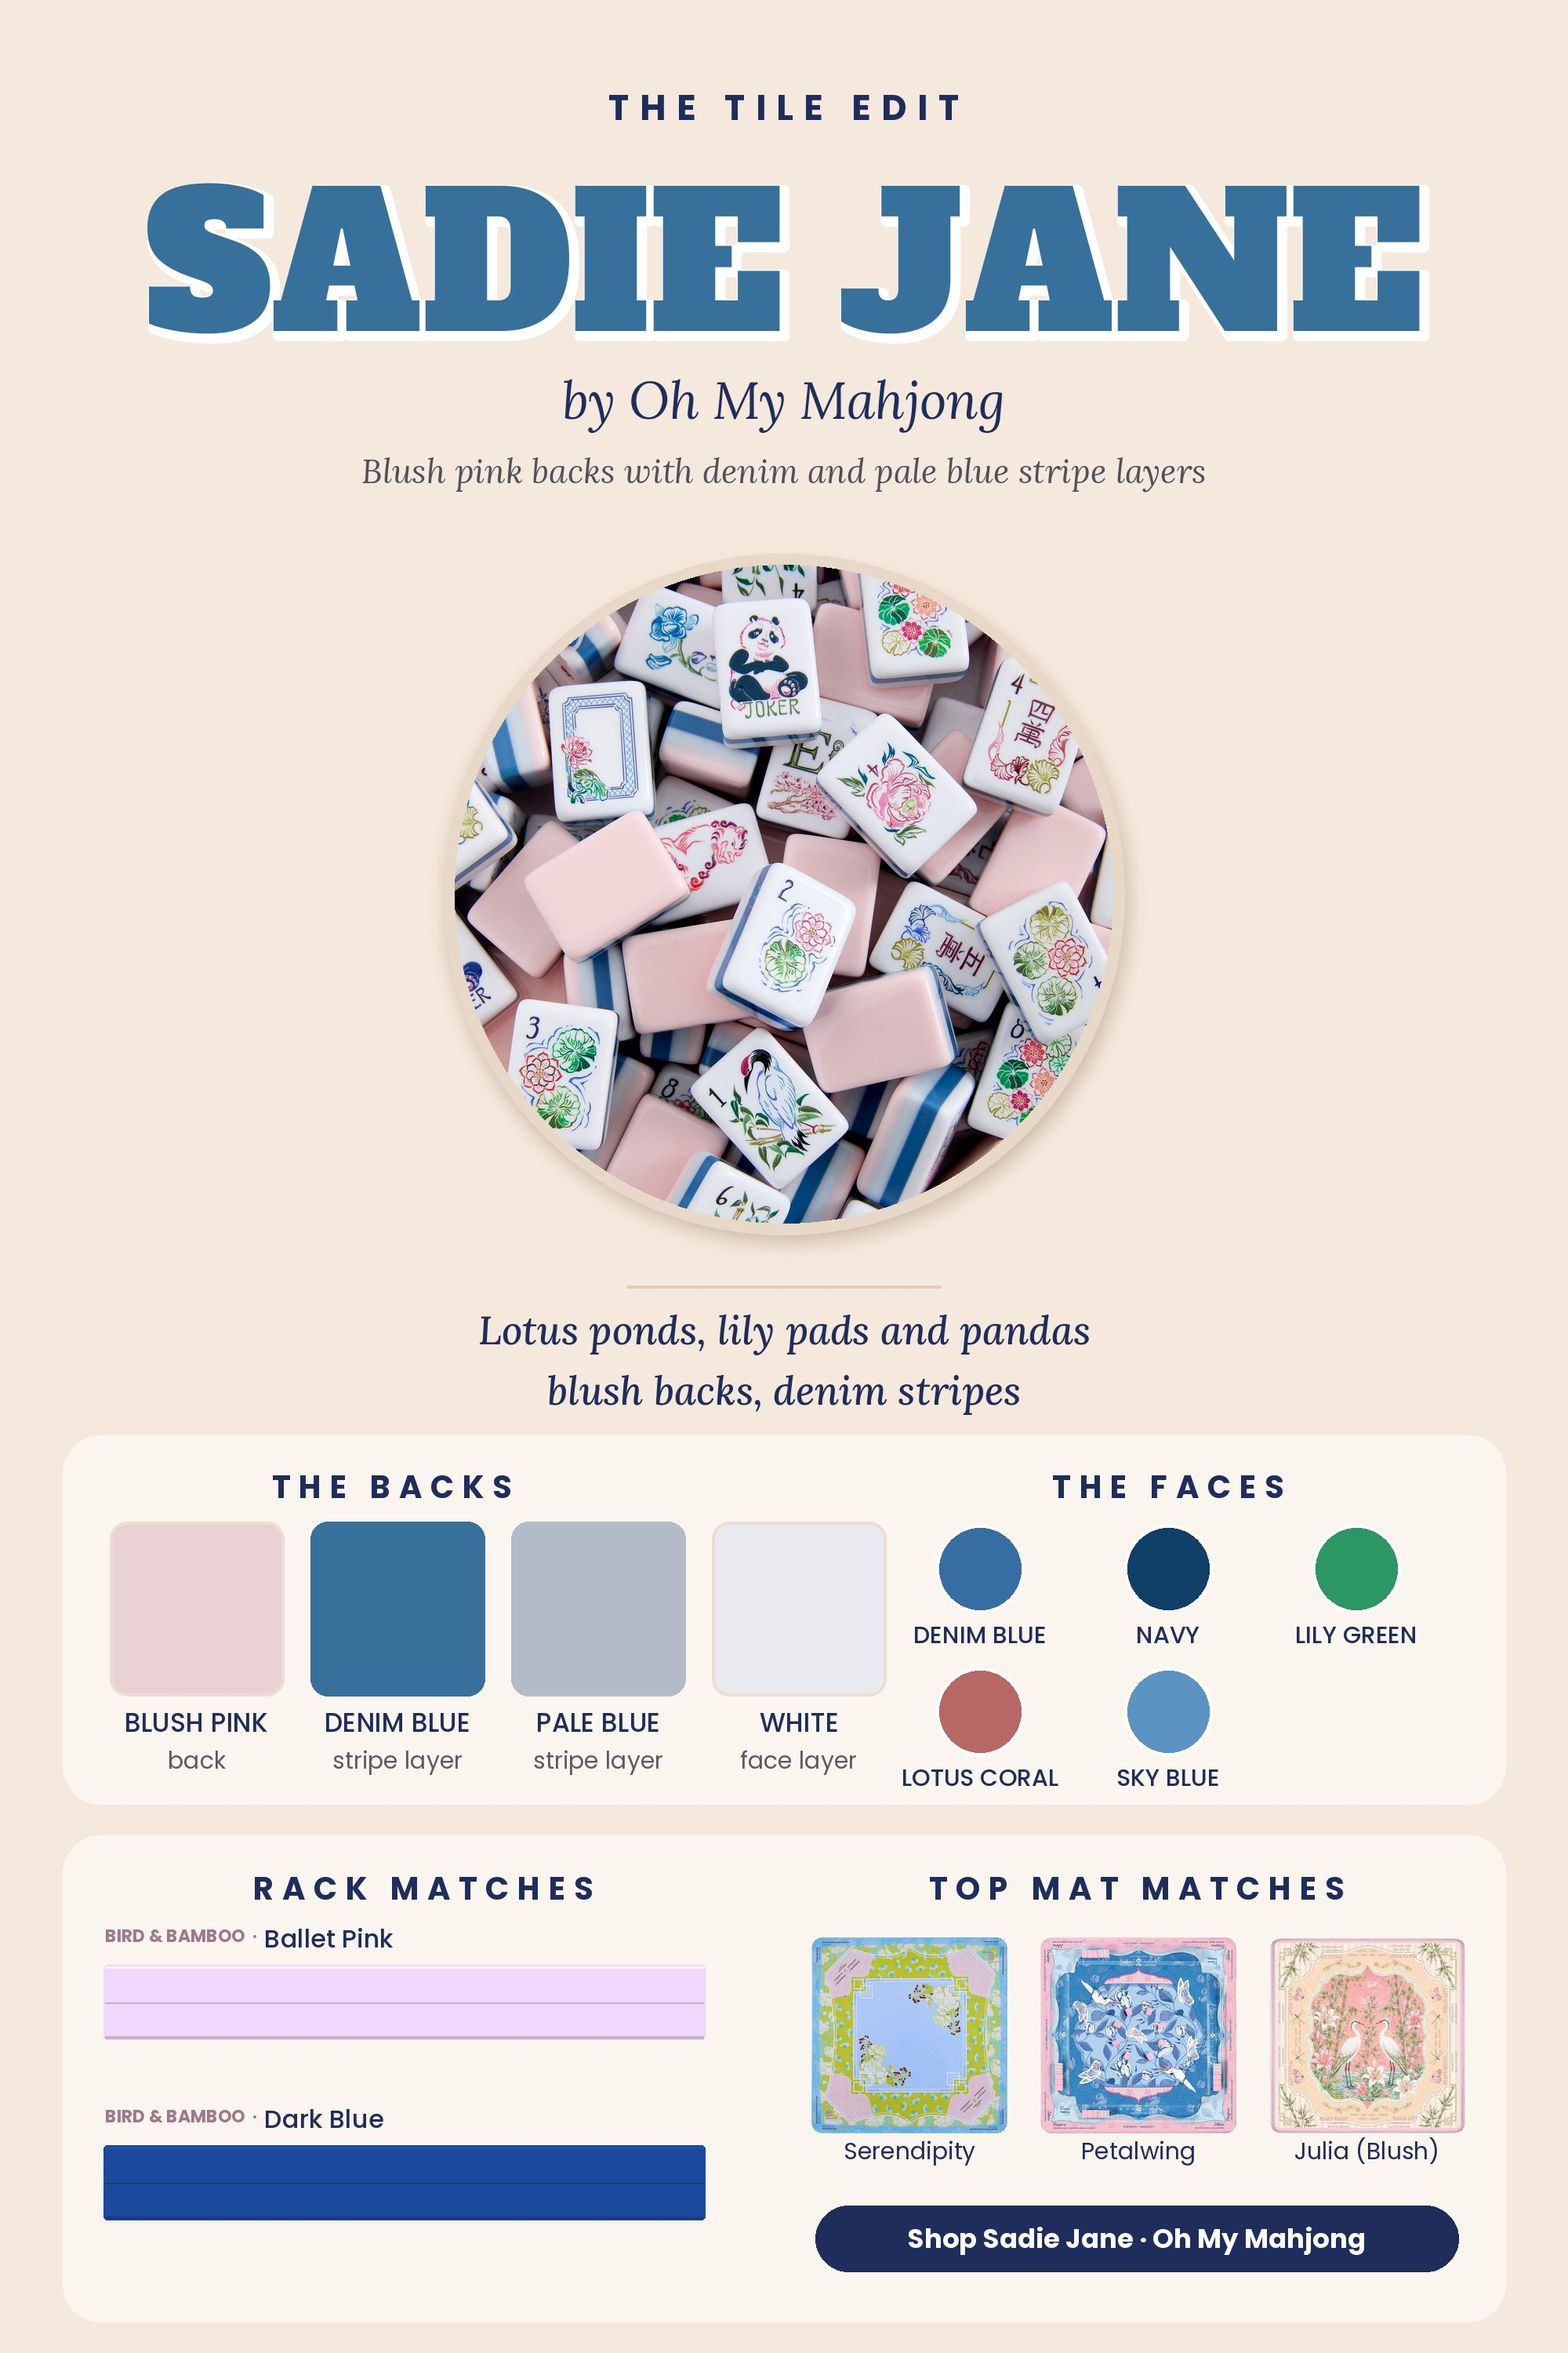
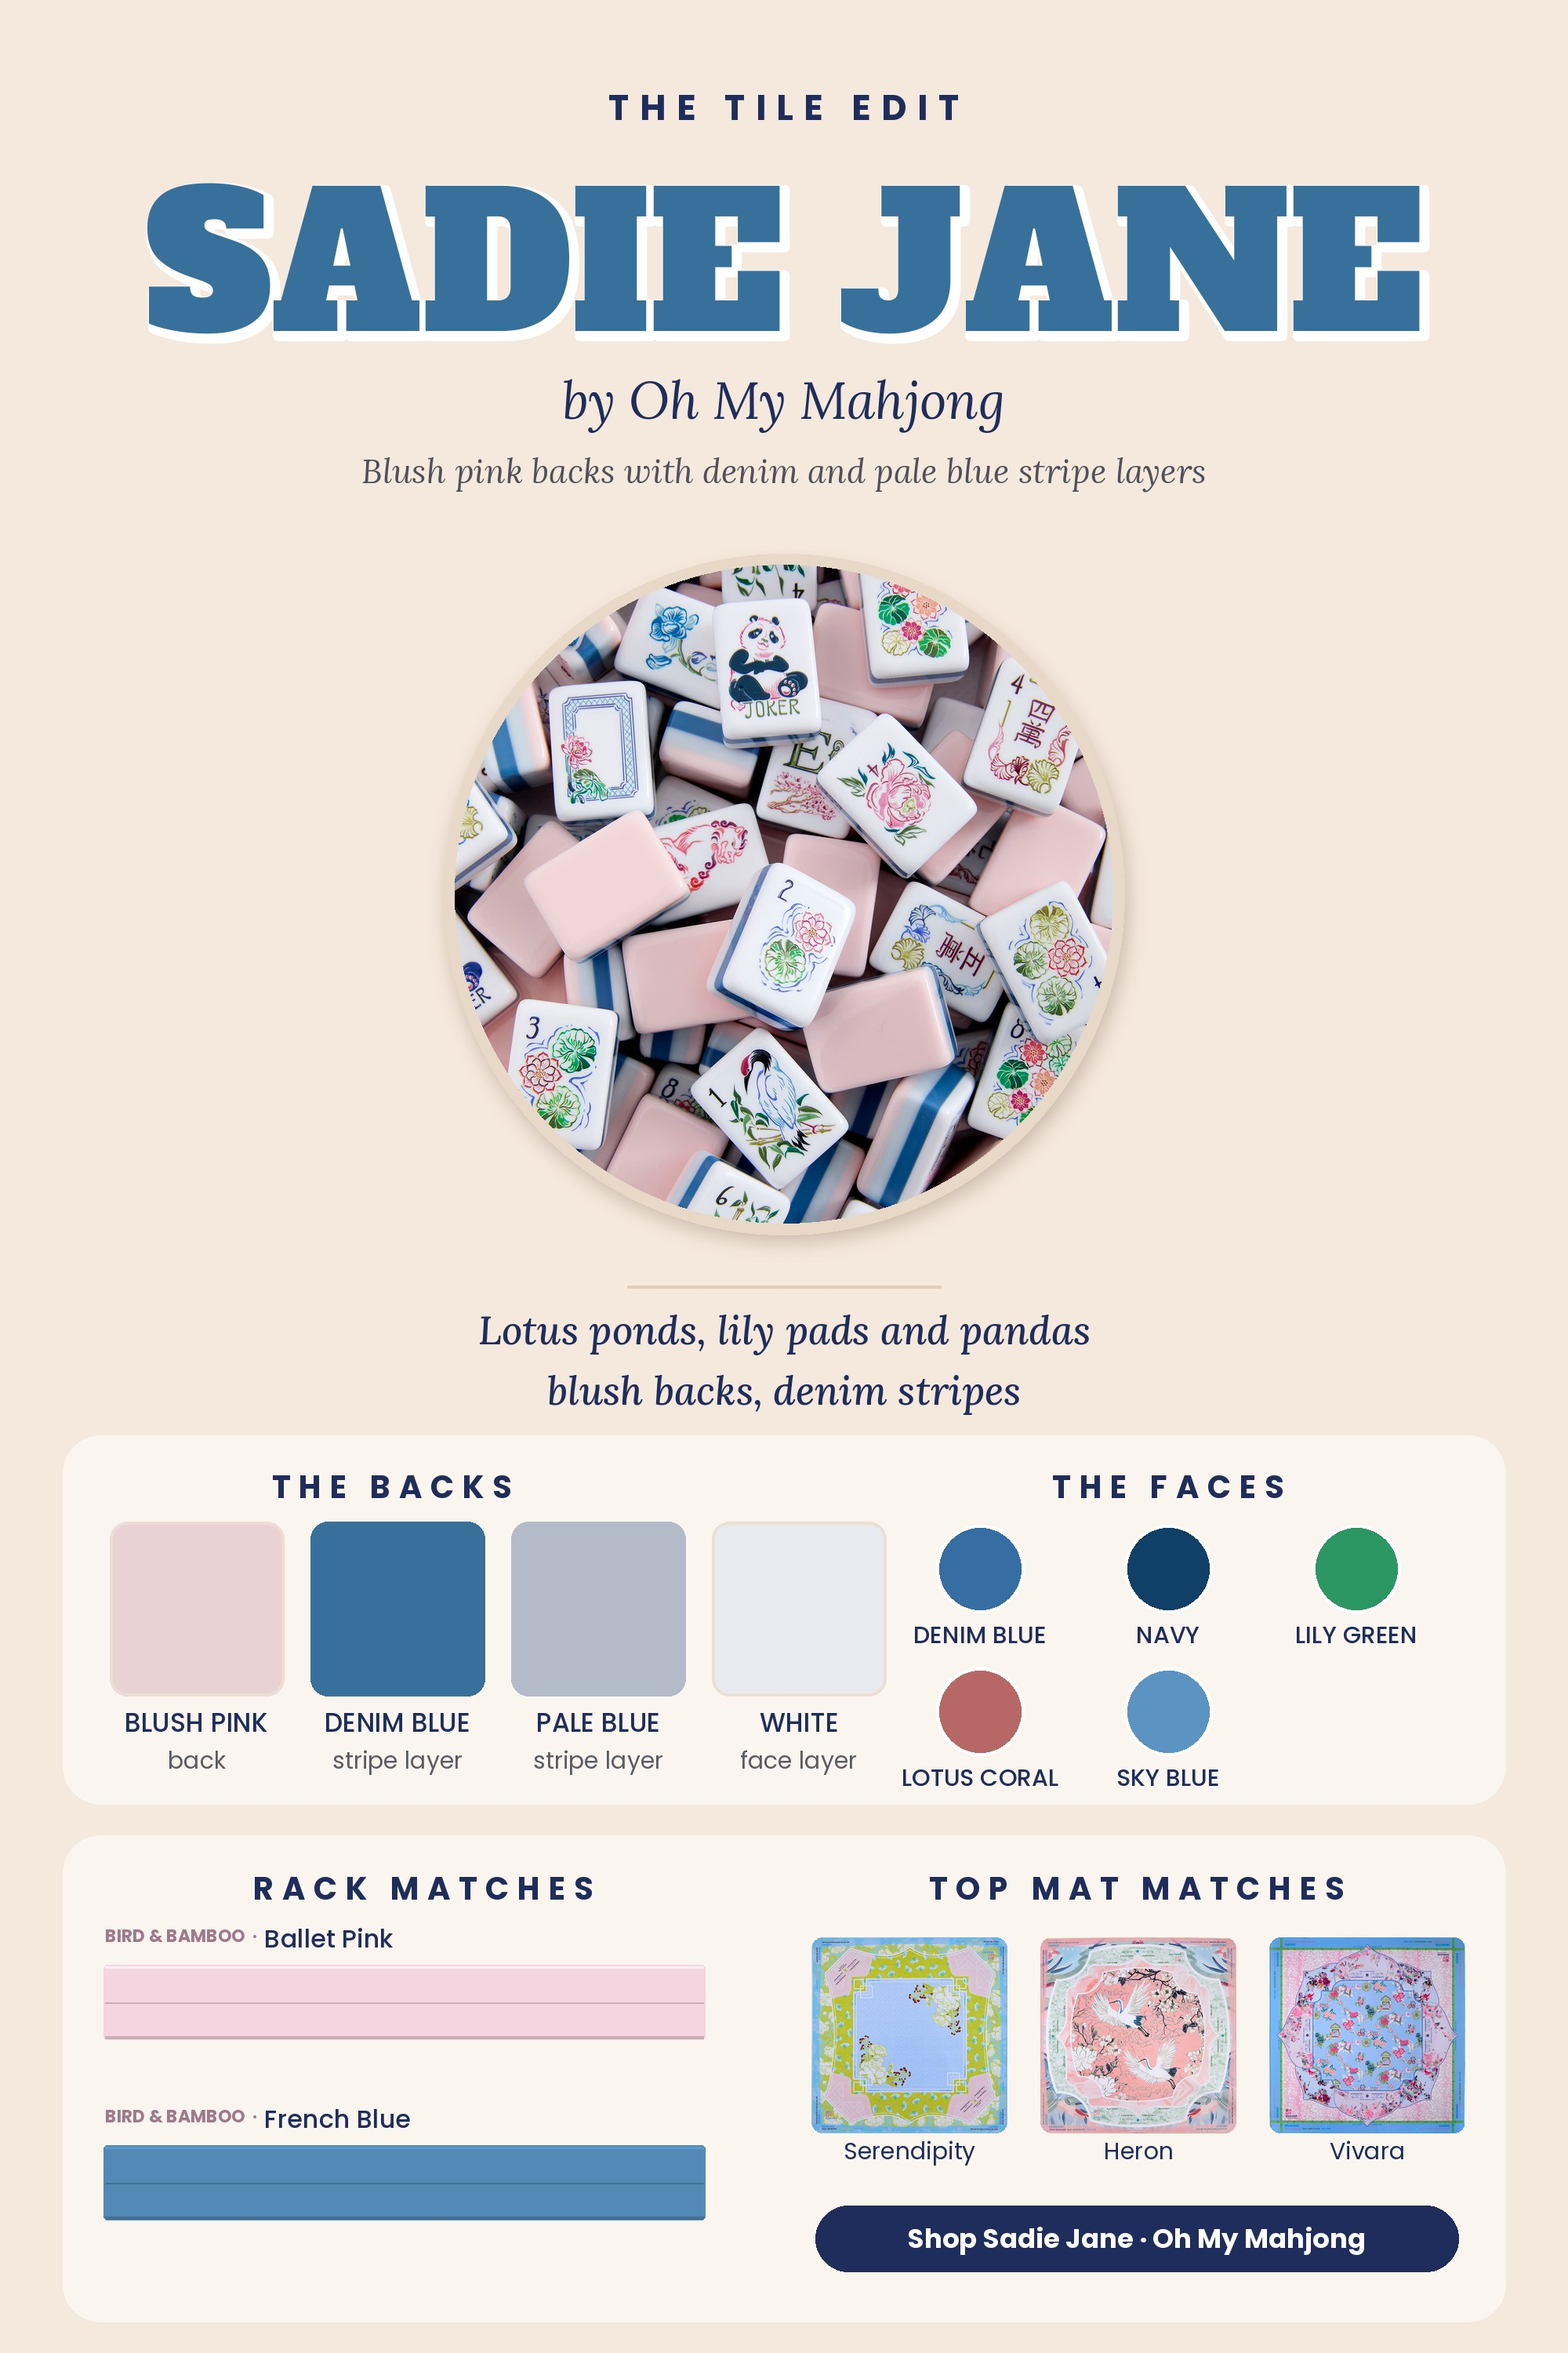
Sadie Jane colour card rebuilt (Ballet Pink + French Blue, top mats per her order); B&B Ballet Pink colour fixed in builder table
Claude-Session: https://claude.ai/code/session_01QxwYQtmWcAr4s5uYJYP3mA

Changed region(s): [[0.651, 0.806, 0.961, 0.93], [0.062, 0.899, 0.465, 0.961], [0.062, 0.837, 0.465, 0.868]]

diff --git a/scripts/colorcards/build.py b/scripts/colorcards/build.py
@@ -102,7 +102,7 @@ def rack_strip(S, name, w, h, maxh=None):
         nh = max(8, int(im.height * w / im.width))
         if maxh and nh > maxh: return im.resize((max(8, int(im.width * maxh / im.height)), maxh), Image.LANCZOS)
         return im.resize((w, nh), Image.LANCZOS)
-    col = BB_RGB.get(name.replace('Bird & Bamboo ', '')) or _bb_hex(name.replace('Bird & Bamboo ', '')) or (200, 200, 200)
+    col = _bb_hex(name.replace('Bird & Bamboo ', '')) or BB_RGB.get(name.replace('Bird & Bamboo ', '')) or (200, 200, 200)   # Nov 23 2026: work/bbracks.json first (Ballet Pink was drawing lavender from the old table)
     im = Image.new('RGBA', (w, h), (0, 0, 0, 0)); d = ImageDraw.Draw(im)
     d.rounded_rectangle((0, 0, w - 1, h - 1), radius=5, fill=col)
     dk = tuple(max(0, int(v * .82)) for v in col); lt = tuple(min(255, int(v * 1.12)) for v in col)

diff --git a/docs/OVERDUE.md b/docs/OVERDUE.md
@@ -189,3 +189,4 @@
 - Reel covers: 40 sets only have the retired blur-band version (assets/covers/albums/reel-tall/_retired-blur-bands/). Rebuild each true 9:16 (TALL=1 album_cover_omm.py with the album's tile photo, or reel_tall_wall.py) and pass reel_cover_check.py; do a set's cover before its next reel, the rest from docs/USE-THE-USAGE.md.
 - Betty June & Jeannette affiliate inquiry sent Nov 23 (email): watch mahjmatchmaker@ inbox for the reply; log brands/betty-june-jeannette in HQ.
 - Sadie Jane QUEUED BATCH (publish once, after her Done or her go): Kerry card rebuilt with the truer site photo (assets/cards/sadie-jane, built Nov 23 11:55am; manifest/review not republished: she was in the page 11:40am); Serendipity + Vintage Twinkle hi-res cards also in the batch; Heron card rebuilt Nov 23 12:25pm (crop = mat's top-left corner: blue sweep + heron head both show; in assets/cards/sadie-jane, not published). To publish the batch: build_review.py sadie-jane + Artifact publish, ONLY after her Done/go (db v405, updated 16:40Z, done false at 12:20pm). Also swap the Kerry photo in FYM + Mat Gallery to assets/mats/etsy/bettyjunejeannette/kerry-site-5.jpg in the next FYM release (hers is 'too saturated').
+- Sadie Jane colour card REBUILT Nov 23 1:10pm (Ballet Pink blush + French Blue bars; top 3 = Serendipity, Heron, Vivara from her order at 1pm, Peri-twinkle skipped as retired). Re-check the top 3 against her FINAL order after Done. builder/bbracks.json Ballet Pink fixed to #F5D6E0 (was still lavender): goes out with the next FYM release.
